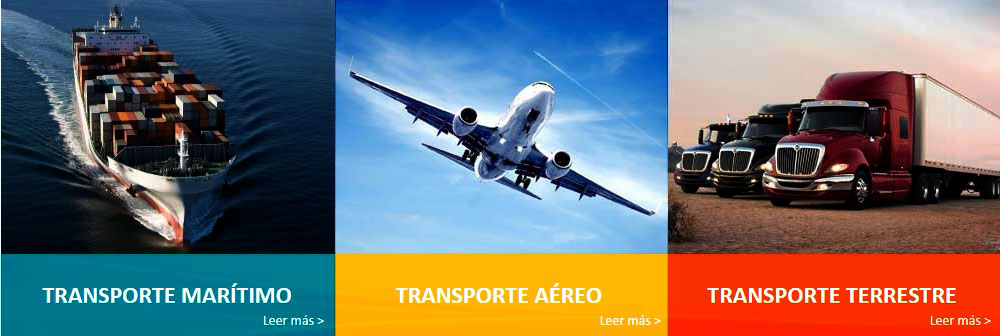
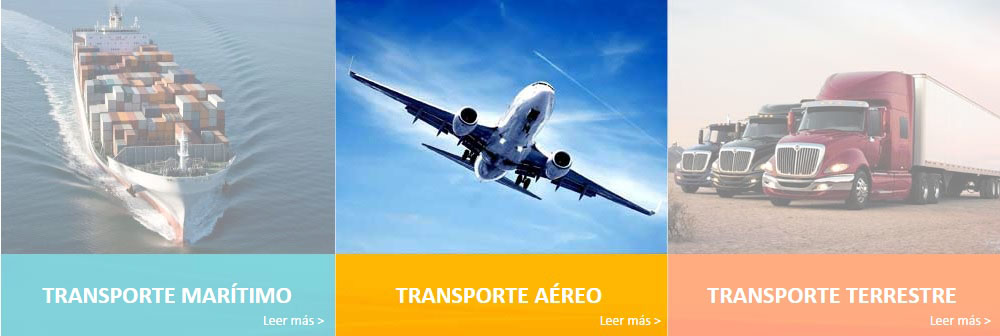
Cambio sección de servicios
Subo la sección de servicios modificada
-En las primeras tres imagenes tiene efecto propuesta para esta sección
-En la imagen de abajo tiene el efecto original hecho a mano, considero
que se parece a la versión original
-Subo también corrección para el login

diff --git a/public/js/servicios.js b/public/js/servicios.js
@@ -1,10 +1,9 @@
 $( document ).ready(function() 
 {
 
-  $('#collapsibleUno').collapse();
-  
-
-  $('#detalleMaritimo').on("click",function()
+  //Codigo para transicion propuesta en detalle
+  //$('#collapsibleUno').collapse();
+  $('#detalleAduanaMaritimo').on("click",function()
   {
     if(!$('#collapsiblePanel').hasClass('alert-maritimo') )
     {
@@ -14,15 +13,29 @@ $( document ).ready(function()
           );
         if(!$("#collapsibleUno").hasClass('in'))
           $('#collapsibleUno').collapse('toggle');
+
+          var src = $("#imgTransportes").attr('src');
+
+          if(src == "/img/Servicios/maritimoFocus.jpg")
+            $("#imgTransportes").attr("src","/img/Servicios/Servicios-transporte.jpg");
+          else
+            $("#imgTransportes").attr("src","/img/Servicios/maritimoFocus.jpg");
+        
     }
     else
     {
         $('#collapsibleUno').collapse('toggle');
+
+        var src = $("#imgTransportes").attr('src');
+          if(src == "/img/Servicios/maritimoFocus.jpg")
+            $("#imgTransportes").attr("src","/img/Servicios/Servicios-transporte.jpg");
+          else
+            $("#imgTransportes").attr("src","/img/Servicios/maritimoFocus.jpg");
     }
 
   });
 
-  $('#detalleAereo').on('click',function()
+  $('#detalleAduanaAereo').on('click',function()
   {
     if(!$('#collapsiblePanel').hasClass('alert-aereo') )
     {
@@ -59,7 +72,7 @@ $( document ).ready(function()
 
   });
 
-  $('#detalleTerrestre').on('click',function()
+  $('#detalleAduanaTerrestre').on('click',function()
   {
     if(!$('#collapsiblePanel').hasClass('alert-terrestre') )
     {
@@ -70,15 +83,74 @@ $( document ).ready(function()
          
         if(!$("#collapsibleUno").hasClass('in'))
           $('#collapsibleUno').collapse('toggle');
+
+        var src = $("#imgTransportes").attr('src');
+          if(src == "/img/Servicios/terrestreFocus.jpg")
+            $("#imgTransportes").attr("src","/img/Servicios/Servicios-transporte.jpg");
+          else
+            $("#imgTransportes").attr("src","/img/Servicios/terrestreFocus.jpg");
     }
     else
     {
         $('#collapsibleUno').collapse('toggle');
+
+        var src = $("#imgTransportes").attr('src');
+          if(src == "/img/Servicios/terrestreFocus.jpg")
+            $("#imgTransportes").attr("src","/img/Servicios/Servicios-transporte.jpg");
+          else
+            $("#imgTransportes").attr("src","/img/Servicios/terrestreFocus.jpg");
     }
 
   });
 
+
+
+  //Codigo para mandar la entrada de la transición de detalle
+  $(function() 
+  {
+    // run the currently selected effect
+    function runEffect() 
+    {
+      // get effect type from
+      var selectedEffect = "drop";
+ 
+      // most effect types need no options passed by default
+      var options = {};
+      // some effects have required parameters
+      if ( selectedEffect === "scale" ) {
+        options = { percent: 0 };
+      } else if ( selectedEffect === "size" ) {
+        options = { to: { width: 200, height: 60 } };
+      }
+ 
+      // run the effect
+      $( "#detalleAduana" ).toggle( selectedEffect, options, 500 );
+    };
+ 
+    // set effect from select menu value
+    $( "#btnAduana" ).click(function() {
+      runEffect();
+    });
+    $( "#aduanaClose" ).click(function() {
+      $( "#btnAduana" ).click();
+    });
+  });
+  //Codigo para setear la posición de cuadro de detalle
+  var width = $("#imgTransportes").width();
+  var height = $("#imgTransportes").height();
+
+  $("#detalleAduana").css("display","none"); 
+  $("#detalleAduana").css("position","relative");
+  $("#detalleAduana").css("background-color","rgba(0,0,0,.8)");
+  $("#detalleAduana").css("color","white");
+  $("#detalleAduana").css("opacity","1");
+
+  $("#detalleAduana").css("bottom",height);
+  $("#detalleAduana").css("margin-bottom",-height);
+  $("#detalleAduana").css("left",width/3);
+
+  $("#detalleAduana").css("height",height);
+  $("#detalleAduana").css("width", (width/3)*2  );
+  $("#detalleAduana").css("marginleft"," 24em");
+
 });
-
-
-

diff --git a/public/css/style.css b/public/css/style.css
@@ -15,6 +15,8 @@ lead{color: black;}
 .container {font-family: Calibri;}
 .container-fluid {font-family: Calibri;}
 
+
+
 @media (max-width: 767px) {
   .top{ padding-top: 8px;}
   .bigTop{ padding-top: 20px;}
@@ -183,3 +185,36 @@ input[type="text"] > input:active { cursor: pointer; }
   border-color: rgba(253,89,0,.3);
   border-radius: 0px;
 }
+
+.detalle-content
+{
+  
+  margin-left: 3em;
+}
+/*
+#detalle
+{
+  position: relative;
+  background-color: rgba(0,0,0,.8);
+  color: white;
+  opacity: 1;
+
+  top: -24em;
+  height: 24em;
+  margin-left: 24em;
+}
+*/
+
+.icon-close 
+{ 
+  font-size: 20px;
+  cursor: pointer;
+  margin-top: 5px;
+  margin-right: 10px;
+  color: white;
+}
+.icon-close:hover
+{
+  color: rgba(255,255,255,.7);
+}
+
